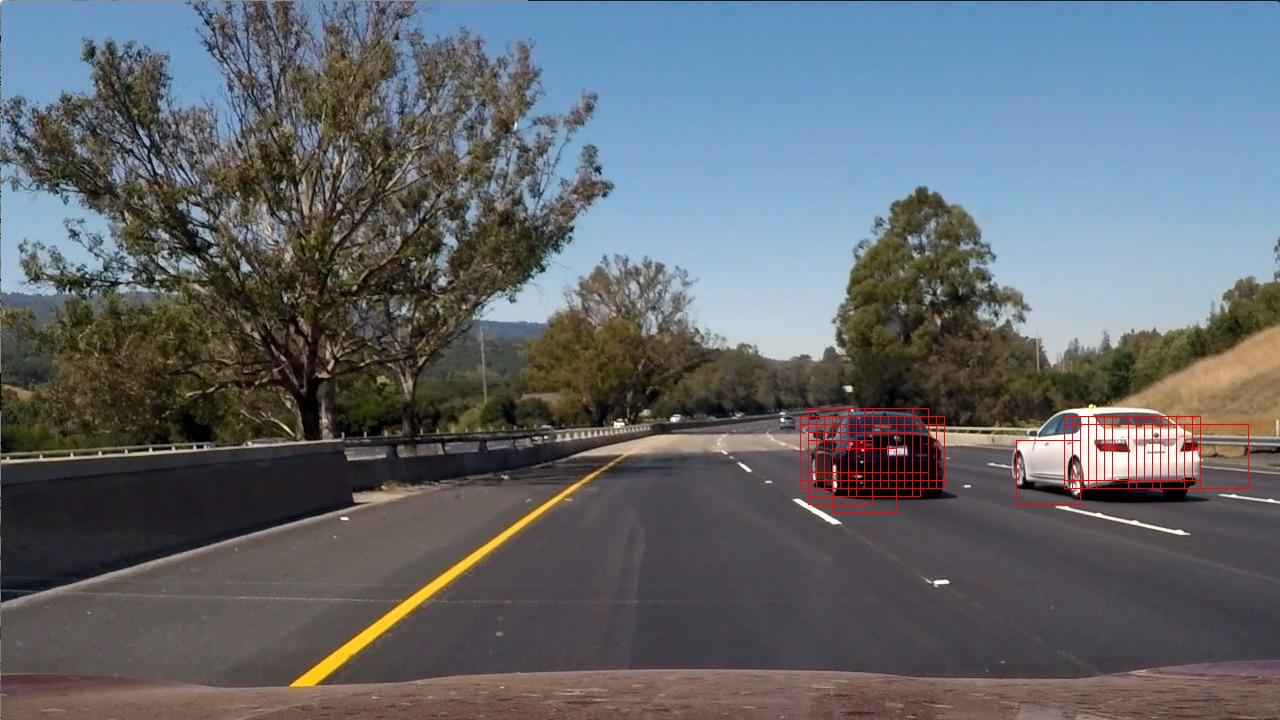
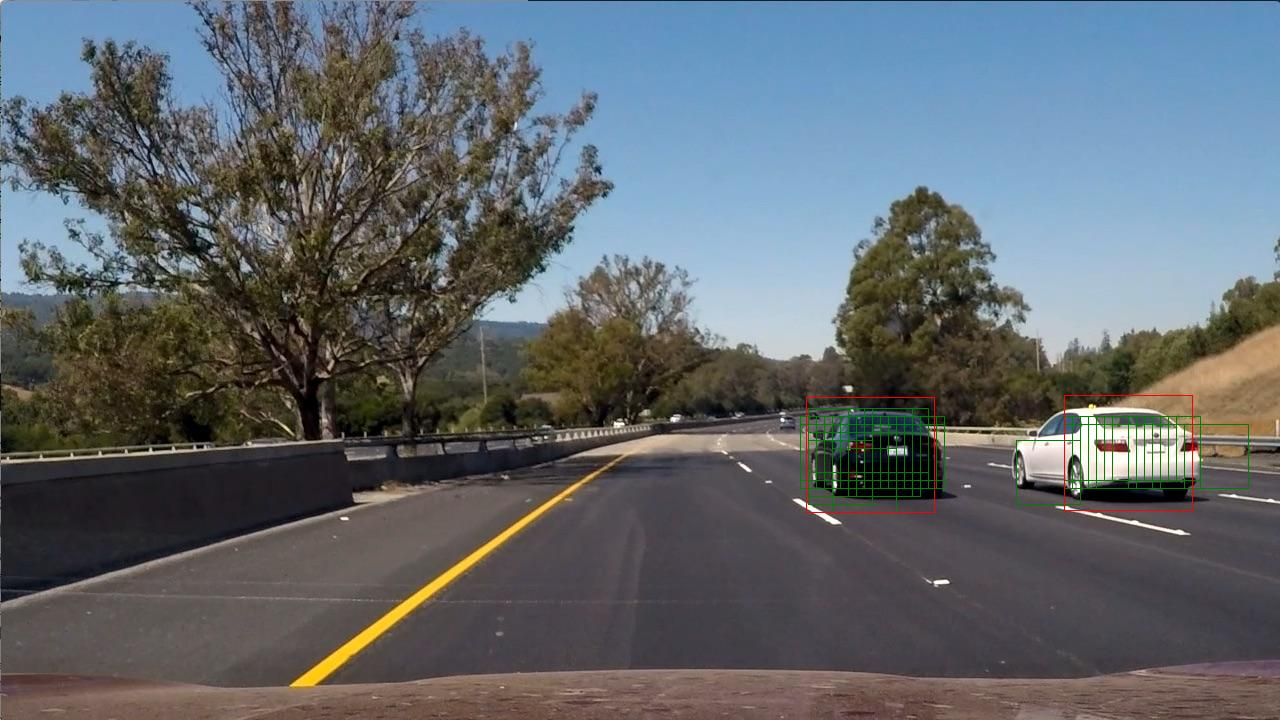
Grouping

Changed region(s): [[0.7812, 0.5194, 1.0, 0.7028], [0.625, 0.55, 0.75, 0.7333]]

diff --git a/sw_algorithm.py b/sw_algorithm.py
@@ -3,6 +3,7 @@ import torchvision
 import numpy as np 
 import glob
 from PIL import Image, ImageDraw
+import cv2
 from scipy.ndimage.measurements import label
 import time
 
@@ -94,9 +95,10 @@ print('Using',device)
 Net=torch.load('cnn.pt')
 Net.eval()
 
-
-def sliding_window(image,threshold=0.99,showhm=False):
+def sliding_window(image,sx=2,sy=1.8,threshold=0.99,showhm=False):
     
+    rectangles=[]
+
     image_tensor = torchvision.transforms.functional.to_tensor(image)
     image_tensor = torch.unsqueeze(image_tensor,0).to(device)
 
@@ -115,9 +117,18 @@ def sliding_window(image,threshold=0.99,showhm=False):
     y = (yy[heatmap[:,:]>threshold])
     
     for i,j in zip(x,y): 
-        if j>image.height//32:
-            draw.rectangle((i*8,j*8,i*8+64,j*8+64), outline="red")
+        rectangles.append([int(i*8),int(j*8),int(64),int(64)])
 
+    boxes = cv2.groupRectangles(rectangles,2,1)
+
+    print(boxes[0])
+
+    for box in rectangles:
+        draw.rectangle((box[0],box[1],box[2]+box[0],box[3]+box[1]),outline='green')
+
+    for box in boxes[0]:
+        draw.rectangle((box[0]-(sx-1)*box[2]//2,box[1]-(sy-1)*box[2]//2,box[2]*sx+box[0]-(sx-1)*box[2]//2,box[3]*sy+box[1]-(sy-1)*box[2]//2),outline='red')
+    
 
     # heatmap[heatmap[:,:]<=threshold]=0
     # heatmap[heatmap[:,:]>threshold]=100

diff --git a/script.py b/script.py
@@ -1,11 +1,15 @@
 from PIL import Image
 import glob
+import cv2
 
-source="data_zip/vehicles/KITTI_extracted/*.png"
-destination="data_zip/vehicles/"
+# source="data_zip/vehicles/KITTI_extracted/*.png"
+# destination="data_zip/vehicles/"
 
-files=glob.glob(source)
+# files=glob.glob(source)
 
-for i,file in enumerate(files):
-    img=Image.open(file)
-    img.save(destination+str(i+500000)+'.png')
+# for i,file in enumerate(files):
+#     img=Image.open(file)
+#     img.save(destination+str(i+500000)+'.png')
+
+a = [[0,0,20,20],[10,10,40,20]]
+print(cv2.groupRectangles(a,1,10000))
